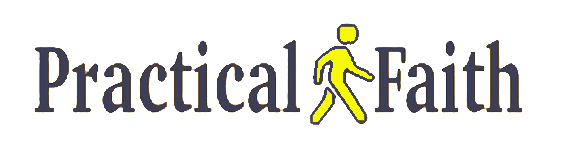
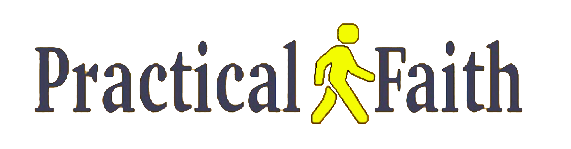
update

Changed region(s): [[0.5359, 0.1342, 0.655, 0.8322]]

diff --git a/docs/app/home.html b/docs/app/home.html
@@ -19,7 +19,7 @@ body {
 </head>
 <body>
 <h2><img src="images/Logo.png" width="188" height="208"></h2>
-<h2><img src="images/banner2.png" alt="" width="492" height="127"></h2>
+<h2><img src="images/banner2.png" alt="" width="369" height="112"></h2>
 <h2 class="arial"><span class="blue">Making the Bible Relevant<br>for Today’s Living</span></h2>
 <h3 class="arial"><span class="blue">with Pastor Rev Owens</span></h3>
 </body>
